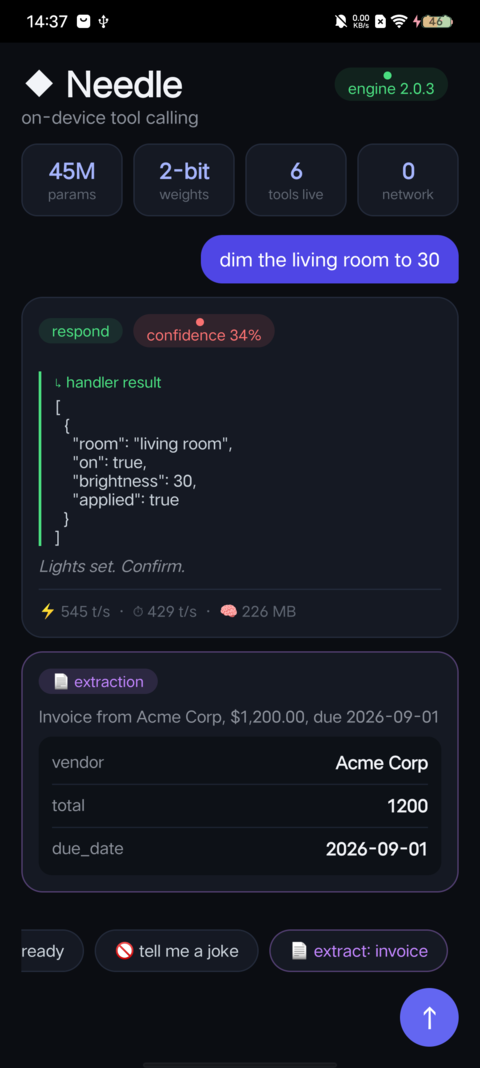
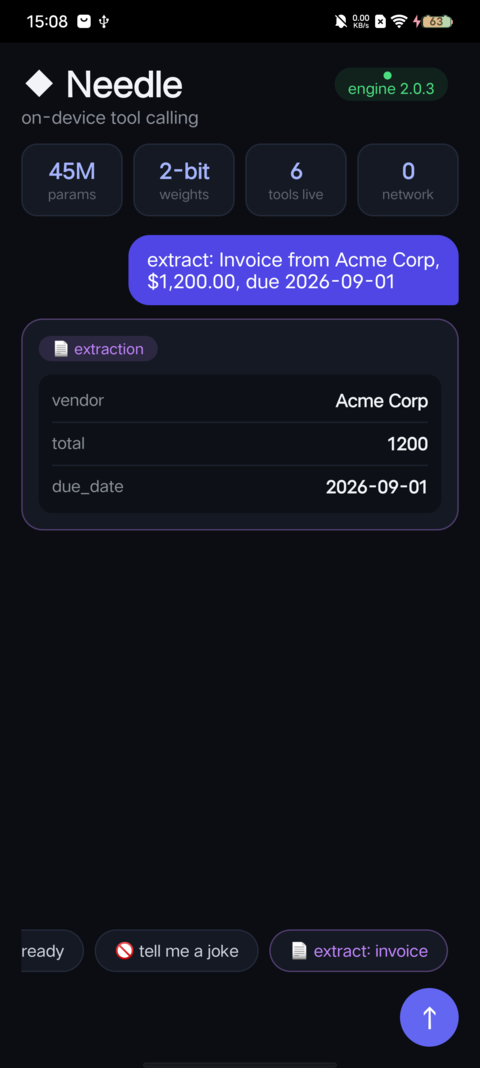
feat(demo): show the extraction input as a user bubble
- runExtract pushes a user entry with the invoice text before the extract
  card, so extraction follows the same request → result conversation
  pattern as tool-calling turns (and the scroll anchor lands on the bubble)
- ExtractCard drops its in-card input line (now redundant)
- Add a ref-based busy guard: setState lags, rapid chip taps could fire
  duplicate runs
- Refresh the extraction screenshot in the README

diff --git a/examples/lynx-needle-demo/src/App.tsx b/examples/lynx-needle-demo/src/App.tsx
@@ -14,7 +14,7 @@ import './App.css'
 type Entry =
   | { kind: 'user'; text: string }
   | { kind: 'turn'; response: NeedleRunResult }
-  | { kind: 'extract'; input: string; output: Record<string, unknown> | null }
+  | { kind: 'extract'; output: Record<string, unknown> | null }
   | { kind: 'error'; text: string }
 
 const CAPABILITIES = [
@@ -97,13 +97,7 @@ function TurnCard({ response }: { response: NeedleRunResult }) {
   )
 }
 
-function ExtractCard({
-  input,
-  output,
-}: {
-  input: string
-  output: Record<string, unknown> | null
-}) {
+function ExtractCard({ output }: { output: Record<string, unknown> | null }) {
   return (
     <view className="card card-extract" flatten={false}>
       <view className="card-head">
@@ -111,7 +105,6 @@ function ExtractCard({
           <text className="pill-text">📄 extraction</text>
         </view>
       </view>
-      <text className="extract-input">{input}</text>
       <view className="kv-table">
         {output === null ? (
           <text className="dim">no structured output</text>
@@ -174,15 +167,14 @@ export function App() {
 
   const logRef = useRef<any>(null)
   const scrollTargetRef = useRef<number | null>(null)
+  // setBusy is async; a ref closes the double-tap window.
+  const busyRef = useRef(false)
 
   const push = useCallback((entry: Entry) => {
     setEntries((prev) => {
-      // Remember where the new content starts so the log can scroll it into
-      // view. For agent turns the 'user' entry marks the turn start (the
-      // response card follows below); extract/error cards stand alone.
-      if (entry.kind === 'user' || entry.kind === 'extract') {
-        scrollTargetRef.current = prev.length
-      }
+      // The 'user' entry marks the start of a turn (extract turns included);
+      // scroll targets it so the response/extract card follows below.
+      if (entry.kind === 'user') scrollTargetRef.current = prev.length
       return [...prev, entry]
     })
   }, [])
@@ -203,7 +195,8 @@ export function App() {
   const ask = useCallback(
     async (query: string) => {
       const agent = needleRef.current
-      if (!agent || busy || !query.trim()) return
+      if (!agent || busy || busyRef.current || !query.trim()) return
+      busyRef.current = true
       setBusy(true)
       push({ kind: 'user', text: query })
       setDraft('')
@@ -213,6 +206,7 @@ export function App() {
       } catch (err) {
         push({ kind: 'error', text: String(err instanceof Error ? err.message : err) })
       } finally {
+        busyRef.current = false
         setBusy(false)
       }
     },
@@ -221,16 +215,21 @@ export function App() {
 
   const runExtract = useCallback(async () => {
     const agent = needleRef.current
-    if (!agent || busy) return
+    if (!agent || busy || busyRef.current) return
+    busyRef.current = true
     setBusy(true)
     try {
+      // Show the input as a user bubble so extraction follows the same
+      // conversation pattern as tool-calling turns.
+      push({ kind: 'user', text: `extract: ${EXTRACT_DEMO_TEXT}` })
       const output = await agent.extract(EXTRACT_DEMO_TEXT, EXTRACT_DEMO_SCHEMA)
-      push({ kind: 'extract', input: EXTRACT_DEMO_TEXT, output })
+      push({ kind: 'extract', output })
       // extract() re-inits the session with a single tool; restore the demo set.
       agent.init(DEMO_SYSTEM, DEMO_TOOLS)
     } catch (err) {
       push({ kind: 'error', text: String(err instanceof Error ? err.message : err) })
     } finally {
+      busyRef.current = false
       setBusy(false)
     }
   }, [busy, push])
@@ -299,7 +298,7 @@ export function App() {
             return <TurnCard key={i} response={entry.response} />
           }
           if (entry.kind === 'extract') {
-            return <ExtractCard key={i} input={entry.input} output={entry.output} />
+            return <ExtractCard key={i} output={entry.output} />
           }
           return (
             <view key={i} className="card" flatten={false}>

diff --git a/examples/lynx-needle-demo/src/App.css b/examples/lynx-needle-demo/src/App.css
@@ -262,12 +262,6 @@
 
 /* ---------- extraction ---------- */
 
-.extract-input {
-  font-size: 12px;
-  color: #8a8f99;
-  margin-bottom: 8px;
-}
-
 .kv-table {
   background-color: #0d1117;
   border-radius: 10px;
